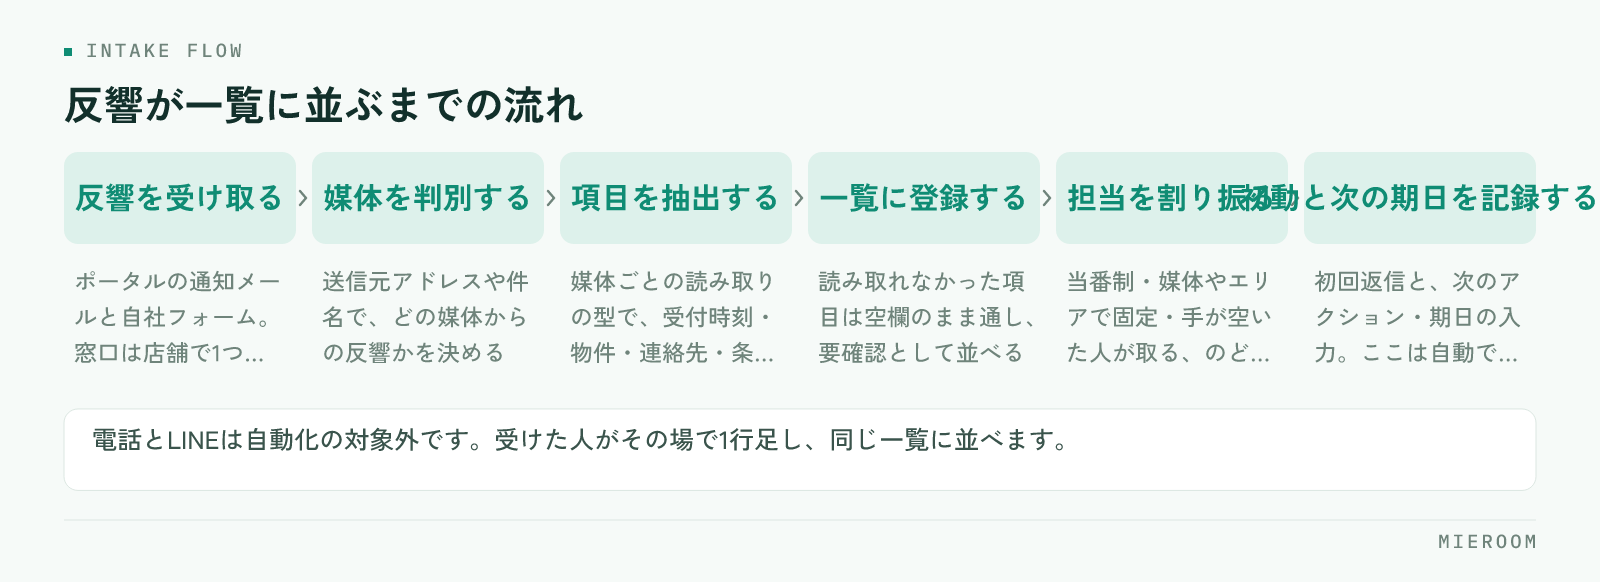
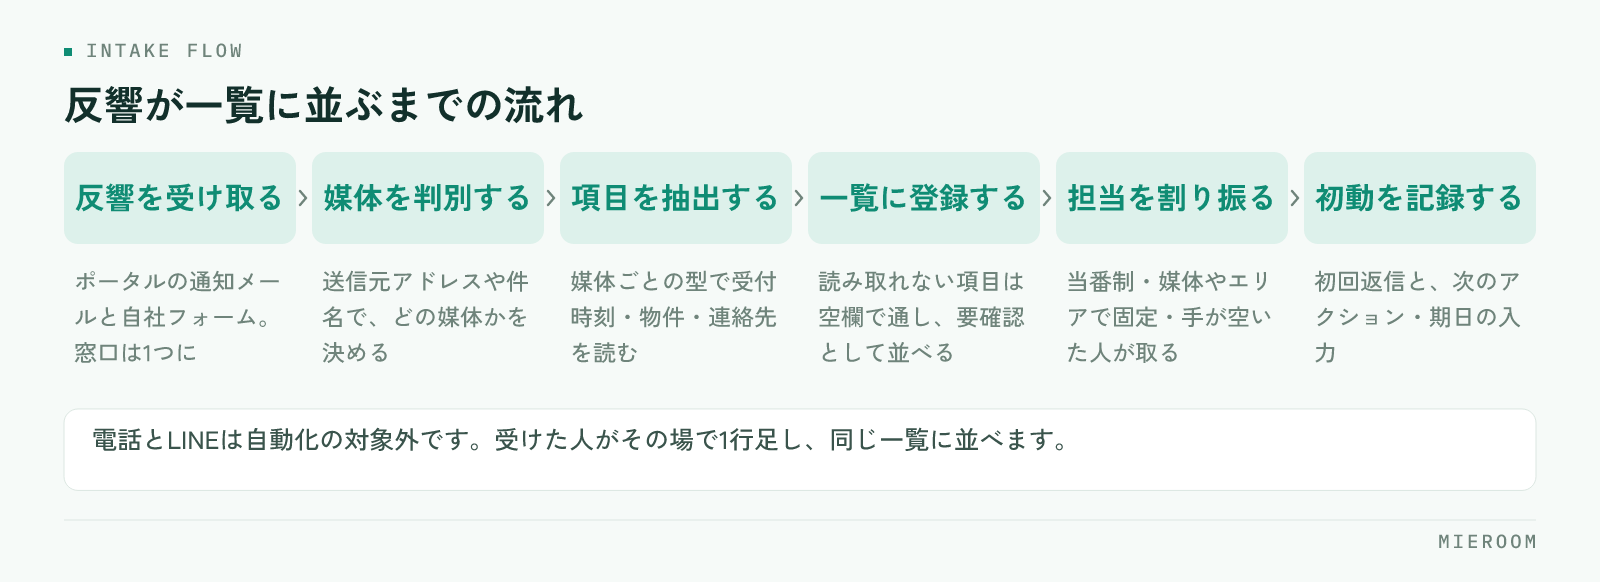
blog: mieroom 図版の工程名が重なっていたため短縮して再生成
Claude-Session: https://claude.ai/code/session_01NFHsDDPS6GCaQ2zjND2ZuJ

diff --git a/mieroom/articles/hankyo-mail-jido-torikomi.html b/mieroom/articles/hankyo-mail-jido-torikomi.html
@@ -104,7 +104,7 @@
 <p>いずれも担当者の注意力の問題ではなく、<strong>手作業を前提にした運用の構造</strong>から生まれます。初動の速さが結果に効く理由は<a href="./lead-response-speed.html">反響の初動5分</a>で扱っています。</p>
 <h2 id="h2">自動取込の仕組みは、2つの入口で考える</h2>
 <p>反響の入口は、大きくメールとフォームの2つに分かれます。仕組みとしては別物なので、分けて設計します。</p>
-<figure class="fig"><img src="../assets/figures/hankyo-mail-jido-torikomi.png" alt="反響の受信・媒体の判別・項目の抽出・一覧への登録・担当の割り振り・初動と次の期日の記録という反響自動取込の流れ" width="1600" height="582" loading="lazy" decoding="async"><figcaption>自動で進むのは登録までです。割り振りから先は、人の仕事として残ります。</figcaption></figure>
+<figure class="fig"><img src="../assets/figures/hankyo-mail-jido-torikomi.png" alt="反響を受け取る・媒体を判別する・項目を抽出する・一覧に登録する・担当を割り振る・初動を記録するという反響自動取込の流れ" width="1600" height="582" loading="lazy" decoding="async"><figcaption>自動で進むのは登録までです。割り振りから先は、人の仕事として残ります。</figcaption></figure>
 <p><strong>メール経由</strong>は、ポータルサイトから届く反響通知メールを受け取り、本文から必要な項目を読み取って一覧に登録する方式です。専用の受信アドレスを用意し、各ポータルの通知先をそこへ向けます。個人のアドレスに届けたままにせず、店舗として受ける窓口を1つ作るのが前提になります。</p>
 <p><strong>フォーム経由</strong>は、自社サイトの問い合わせフォームから送信された内容を、そのまま管理表へ渡す方式です。項目が最初から決まっているため、メールより確実に取り込めます。自社サイトを持っているなら、こちらから整えるほうが早く効果が出ます。</p>
 <p>電話とLINEは自動化の対象外です。受けた人がその場で1行足す運用に統一し、<strong>入口ごとの方式は違っても、並ぶ場所は同じ一覧にする</strong>ことが重要です。</p>

diff --git a/mieroom/posts/hankyo-mail-jido-torikomi.md b/mieroom/posts/hankyo-mail-jido-torikomi.md
@@ -32,7 +32,7 @@ META-->
 
 反響の入口は、大きくメールとフォームの2つに分かれます。仕組みとしては別物なので、分けて設計します。
 
-<figure class="fig"><img src="../assets/figures/hankyo-mail-jido-torikomi.png" alt="反響の受信・媒体の判別・項目の抽出・一覧への登録・担当の割り振り・初動と次の期日の記録という反響自動取込の流れ" width="1600" height="582" loading="lazy" decoding="async"><figcaption>自動で進むのは登録までです。割り振りから先は、人の仕事として残ります。</figcaption></figure>
+<figure class="fig"><img src="../assets/figures/hankyo-mail-jido-torikomi.png" alt="反響を受け取る・媒体を判別する・項目を抽出する・一覧に登録する・担当を割り振る・初動を記録するという反響自動取込の流れ" width="1600" height="582" loading="lazy" decoding="async"><figcaption>自動で進むのは登録までです。割り振りから先は、人の仕事として残ります。</figcaption></figure>
 
 **メール経由**は、ポータルサイトから届く反響通知メールを受け取り、本文から必要な項目を読み取って一覧に登録する方式です。専用の受信アドレスを用意し、各ポータルの通知先をそこへ向けます。個人のアドレスに届けたままにせず、店舗として受ける窓口を1つ作るのが前提になります。
 
